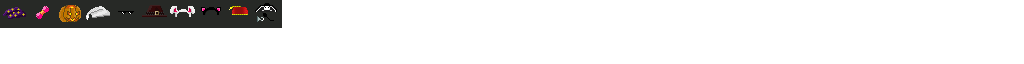
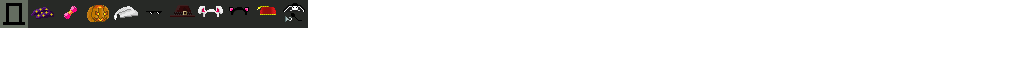
Accessory sprites reindexing

Changed region(s): [[0.0, 0.0, 0.3125, 0.4375]]

diff --git a/PixelDungeon/src/main/java/com/nyrds/pixeldungeon/items/accessories/RabbitEars.java b/PixelDungeon/src/main/java/com/nyrds/pixeldungeon/items/accessories/RabbitEars.java
@@ -5,6 +5,6 @@ package com.nyrds.pixeldungeon.items.accessories;
  */
 public class RabbitEars extends Accessory{
 
-    {image = 6;}
+    {image = 7;}
 
 }

diff --git a/PixelDungeon/src/main/java/com/nyrds/pixeldungeon/items/accessories/NekoEars.java b/PixelDungeon/src/main/java/com/nyrds/pixeldungeon/items/accessories/NekoEars.java
@@ -5,6 +5,6 @@ package com.nyrds.pixeldungeon.items.accessories;
  */
 public class NekoEars extends Accessory{
 
-    {image = 7;}
+    {image = 8;}
 
 }

diff --git a/PixelDungeon/src/main/java/com/nyrds/pixeldungeon/items/accessories/BowTie.java b/PixelDungeon/src/main/java/com/nyrds/pixeldungeon/items/accessories/BowTie.java
@@ -5,6 +5,6 @@ package com.nyrds.pixeldungeon.items.accessories;
  */
 public class BowTie extends Accessory{
 
-    {image = 1;}
+    {image = 2;}
 
 }

diff --git a/PixelDungeon/src/main/java/com/nyrds/pixeldungeon/items/accessories/Shades.java b/PixelDungeon/src/main/java/com/nyrds/pixeldungeon/items/accessories/Shades.java
@@ -5,6 +5,6 @@ package com.nyrds.pixeldungeon.items.accessories;
  */
 public class Shades extends Accessory{
 
-    {image = 4;}
+    {image = 5;}
 
 }

diff --git a/PixelDungeon/src/main/java/com/nyrds/pixeldungeon/items/accessories/SleepyHat.java b/PixelDungeon/src/main/java/com/nyrds/pixeldungeon/items/accessories/SleepyHat.java
@@ -7,7 +7,7 @@ public class SleepyHat extends Accessory{
 
     {
         coverHair = true;
-        image = 3;
+        image = 4;
     }
 
 }

diff --git a/PixelDungeon/src/main/java/com/nyrds/pixeldungeon/items/accessories/WizardHat.java b/PixelDungeon/src/main/java/com/nyrds/pixeldungeon/items/accessories/WizardHat.java
@@ -7,7 +7,7 @@ public class WizardHat extends Accessory{
 
     {
         coverHair = true;
-        image = 0;
+        image = 1;
     }
 
 }

diff --git a/PixelDungeon/src/main/java/com/nyrds/pixeldungeon/items/accessories/Capotain.java b/PixelDungeon/src/main/java/com/nyrds/pixeldungeon/items/accessories/Capotain.java
@@ -7,7 +7,7 @@ public class Capotain extends Accessory{
 
     {
         coverHair = true;
-        image = 5;
+        image = 6;
     }
 
 }

diff --git a/PixelDungeon/src/main/java/com/nyrds/pixeldungeon/items/accessories/Pumpkin.java b/PixelDungeon/src/main/java/com/nyrds/pixeldungeon/items/accessories/Pumpkin.java
@@ -7,7 +7,7 @@ public class Pumpkin extends Accessory{
 
     {
         coverHair = true;
-        image = 2;
+        image = 3;
     }
 
 }

diff --git a/PixelDungeon/src/main/java/com/nyrds/pixeldungeon/items/accessories/Fez.java b/PixelDungeon/src/main/java/com/nyrds/pixeldungeon/items/accessories/Fez.java
@@ -7,7 +7,7 @@ public class Fez extends Accessory{
 
     {
         coverHair = true;
-        image = 8;
+        image = 9;
     }
 
 }
